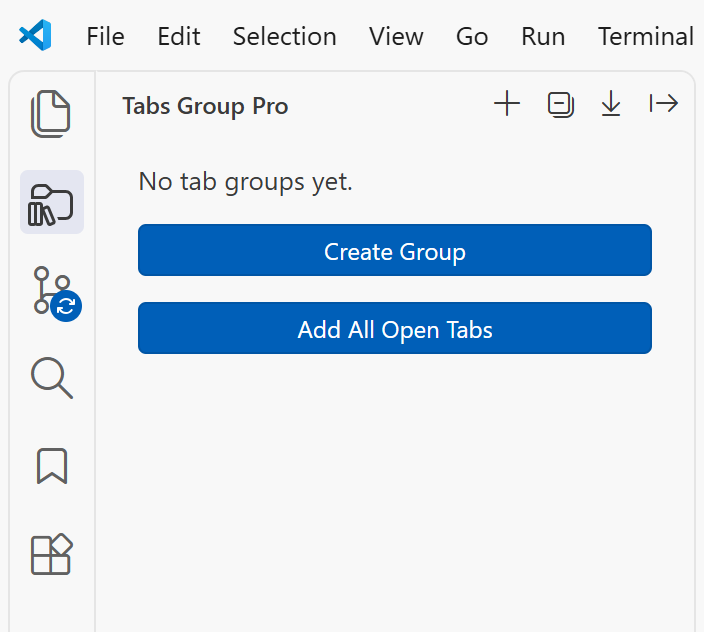
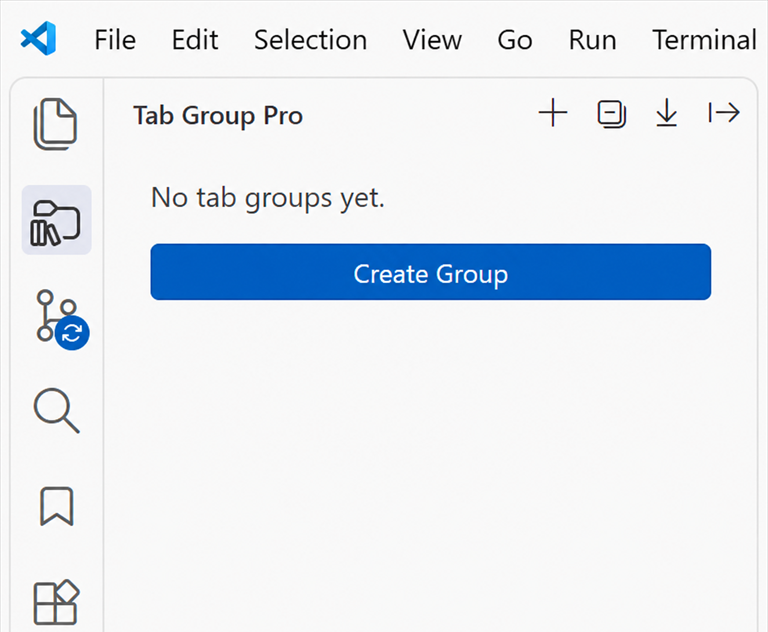
Release Tab Group Pro 2.0.8

diff --git a/scripts/tree-provider.js b/scripts/tree-provider.js
@@ -2,7 +2,7 @@
 
 // Tree view state and group/tab actions.
 Object.defineProperty(exports, "__esModule", { value: true });
-exports.TabGroupsTreeProvider = void 0;
+exports.TabGroupTreeProvider = void 0;
 const vscode = require("vscode");
 const path = require("path");
 const { TabGroupItem } = require("./tree-item");
@@ -16,11 +16,11 @@ const {
     createQuickPickGroupsOptions,
     getCurrentlyOpenFiles
 } = require("./vscode-utils");
-const { TabGroupsDragAndDrop } = require("./tree-drag-drop");
+const { TabGroupDragAndDrop } = require("./tree-drag-drop");
 /**
  * The tree view class. Represents the explorer tree.
  */
-class TabGroupsTreeProvider {
+class TabGroupTreeProvider {
     /**
      * Create a new tree view.
      * Register all the commands available for this tree.
@@ -31,7 +31,7 @@ class TabGroupsTreeProvider {
         this.m_data = [];
         // with the vscode.EventEmitter we can refresh our  tree view
         this.m_onDidChangeTreeData = new vscode.EventEmitter();
-        // and vscode will access the event by using a readonly onDidChangeTreeData 
+        // and vscode will access the event by using a readonly onDidChangeTreeData
         //(this member has to be named like here, otherwise vscode doesnt update our treeview.
         this.onDidChangeTreeData = this.m_onDidChangeTreeData.event;
         this.context = context;
@@ -44,7 +44,7 @@ class TabGroupsTreeProvider {
                 await this.commitChanges();
             }
         );
-        this.dragAndDropController = new TabGroupsDragAndDrop(
+        this.dragAndDropController = new TabGroupDragAndDrop(
             () => this.m_data,
             async (groups, replaceGroups = false) => {
                 if (replaceGroups) this.m_data = groups;
@@ -116,7 +116,7 @@ class TabGroupsTreeProvider {
         let result = new vscode.TreeItem(title, item.collapsibleState);
         // here we add our command which executes our memberfunction
         result.command = {
-            command: "tabs_group_pro.item_clicked",
+            command: "tab_group_pro.item_clicked",
             title: title,
             arguments: [item],
         };
@@ -134,7 +134,7 @@ class TabGroupsTreeProvider {
         if (!element) {
             return this.m_data.map(item => {
                 if (this.treeView && item.isRoot) {
-                    this.treeView.reveal(item, { 
+                    this.treeView.reveal(item, {
                         expand: item.collapsibleState === vscode.TreeItemCollapsibleState.Expanded,
                         focus: false, // 避免初始化时聚焦
                         select: false // 避免初始化时聚焦
@@ -242,9 +242,9 @@ class TabGroupsTreeProvider {
     /*** MID LEVEL ***/
 
     async addEntryToGroup(item) {
-        if(!item){ 
+        if(!item){
             vscode.window.showErrorMessage('Only can be added to Group when right click on a file.');
-            return; 
+            return;
         }
         const selectedFilePath = item.fsPath || item._fsPath;
         if (!selectedFilePath) {
@@ -321,7 +321,7 @@ class TabGroupsTreeProvider {
                 parent.add_child(newChild);
                 filePaths.push(filePath);
             }
-            if(vscode.workspace.getConfiguration("tabs-group-pro").get("closeTabsOnAddAllToGroup")){
+            if(vscode.workspace.getConfiguration("tab-group-pro").get("closeTabsOnAddAllToGroup")){
                 await this.editorTabs.close(filePaths);
             }
             parent.updateTooltip();
@@ -382,7 +382,7 @@ class TabGroupsTreeProvider {
      */
     async openTabGroup(item) {
         // Check if the user wants the other tabs to be closed when opening a new group
-        if (vscode.workspace.getConfiguration("tabs-group-pro").get("closeTabsOnOpenGroup")) {
+        if (vscode.workspace.getConfiguration("tab-group-pro").get("closeTabsOnOpenGroup")) {
             // close every open tab
             await vscode.commands.executeCommand("workbench.action.closeAllEditors");
         }
@@ -682,4 +682,4 @@ class TabGroupsTreeProvider {
         this.groupLabel = null;
     }
 }
-exports.TabGroupsTreeProvider = TabGroupsTreeProvider;
+exports.TabGroupTreeProvider = TabGroupTreeProvider;

diff --git a/scripts/extension.js b/scripts/extension.js
@@ -3,7 +3,7 @@ Object.defineProperty(exports, "__esModule", { value: true });
 exports.deactivate = exports.activate = void 0;
 // VS Code extensibility API
 const vscode = require("vscode");
-const { TabGroupsTreeProvider } = require("./tree-provider");
+const { TabGroupTreeProvider } = require("./tree-provider");
 const { EXTENSION_ID, disposeOutputChannel } = require("./vscode-utils");
 
 function registerCommands(target) {
@@ -32,14 +32,14 @@ function registerCommands(target) {
         addAllToGroup: () => target.addAllOpenTabsToGroup()
     };
     return Object.entries(handlers).map(([command, handler]) =>
-        vscode.commands.registerCommand(`tabs_group_pro.${command}`, handler)
+        vscode.commands.registerCommand(`tab_group_pro.${command}`, handler)
     );
 }
 /**
  * Called when the extension is started
  */
 async function activate(context) {
-    const treeDataProvider = new TabGroupsTreeProvider(context);
+    const treeDataProvider = new TabGroupTreeProvider(context);
     const treeView = vscode.window.createTreeView(EXTENSION_ID, {
         treeDataProvider: treeDataProvider,
         dragAndDropController: treeDataProvider.dragAndDropController

diff --git a/scripts/vscode-utils.js b/scripts/vscode-utils.js
@@ -6,9 +6,9 @@ const vscode = require("vscode");
 const path = require("path");
 const { getAbsolutePathComparisonKey } = require("./group-data");
 
-const EXTENSION_ID = "tabs_group_pro";
+const EXTENSION_ID = "tab_group_pro";
 const NEW_GROUP_LABEL = "Create New Group";
-const TREE_MIME_TYPE = "application/vnd.code.tree.tabs_group_pro";
+const TREE_MIME_TYPE = "application/vnd.code.tree.tab_group_pro";
 const URI_LIST_MIME_TYPE = "text/uri-list";
 
 class EditorTabs {
@@ -114,7 +114,7 @@ function getCurrentlyOpenFiles(workspaceDir) {
     return result;
 }
 
-const outputChannel = vscode.window.createOutputChannel("Tabs Group Pro", { log: true });
+const outputChannel = vscode.window.createOutputChannel("Tab Group Pro", { log: true });
 
 function logMessage(message) {
     outputChannel.appendLine(message);

diff --git a/scripts/group-data.js b/scripts/group-data.js
@@ -75,7 +75,7 @@ class GroupImportExport {
                 }))
             };
             const targetUri = await vscode.window.showSaveDialog({
-                defaultUri: vscode.Uri.joinPath(workspaceFolders[0].uri, "tabs-group-pro-groups.json"),
+                defaultUri: vscode.Uri.joinPath(workspaceFolders[0].uri, "tab-group-pro-groups.json"),
                 filters: { "JSON files": ["json"] },
                 saveLabel: "Export"
             });

diff --git a/scripts/tree-drag-drop.js b/scripts/tree-drag-drop.js
@@ -12,7 +12,7 @@ const {
     getAbsolutePathComparisonKey
 } = require("./group-data");
 
-class TabGroupsDragAndDrop {
+class TabGroupDragAndDrop {
     constructor(getGroups, commitChanges, editorTabs) {
         this.getGroups = getGroups;
         this.commitChanges = commitChanges;
@@ -216,4 +216,4 @@ class TabGroupsDragAndDrop {
     }
 }
 
-exports.TabGroupsDragAndDrop = TabGroupsDragAndDrop;
+exports.TabGroupDragAndDrop = TabGroupDragAndDrop;

diff --git a/README.md b/README.md
@@ -1,10 +1,10 @@
-# Tabs Group Pro
+# Tab Group Pro
 
 [简体中文](README.zh-CN.md) | English
 
 Create persistent file groups for each VS Code workspace and reopen the files you need in a predictable order.
 
-[Install Tabs Group Pro from Visual Studio Marketplace](https://marketplace.visualstudio.com/items?itemName=shelus2021.tabs-group-pro)
+[Install Tab Group Pro from Visual Studio Marketplace](https://marketplace.visualstudio.com/items?itemName=shelus2021.tab-group-pro)
 
 ## Features
 
@@ -25,13 +25,13 @@ Create persistent file groups for each VS Code workspace and reopen the files yo
 
 | Create your first group | Manage grouped files |
 | --- | --- |
-| <img src="screenshots/empty-state.png" alt="Tabs Group Pro empty state with actions to create a group or add all open tabs" width="360"> | <img src="screenshots/group-actions.png" alt="Tabs Group Pro showing grouped files and the group actions menu" width="360"> |
+| <img src="screenshots/empty-state.png" alt="Tab Group Pro empty state with an action to create a group" width="360"> | <img src="screenshots/group-actions.png" alt="Tab Group Pro showing grouped files and the group actions menu" width="360"> |
 
 ## Getting started
 
 1. Open a folder or workspace in VS Code.
-2. Open **Tabs Group Pro** from the Activity Bar.
-3. Run **Tabs Group Pro: Add a New Group**, or use **Add All Opened Tabs to Group**.
+2. Open **Tab Group Pro** from the Activity Bar.
+3. Run **Tab Group Pro: Add a New Group**, or use **Add All Opened Tabs to Group**.
 4. Drag groups or tabs to reorder them. Drop a tab on another group to move it across groups, or drag tabs in either direction between the editor and a group.
 
 Groups are stored in VS Code workspace state and restored when that workspace is opened again. Grouped tabs are persisted as workspace-relative paths and resolved against the currently open workspace when loaded.
@@ -58,8 +58,8 @@ The JSON format is:
 
 | Setting | Default | Description |
 | --- | --- | --- |
-| `tabs-group-pro.closeTabsOnOpenGroup` | `false` | Close all currently open editors before opening a group. |
-| `tabs-group-pro.closeTabsOnAddAllToGroup` | `false` | Close open text tabs after adding all of them to a group. |
+| `tab-group-pro.closeTabsOnOpenGroup` | `false` | Close all currently open editors before opening a group. |
+| `tab-group-pro.closeTabsOnAddAllToGroup` | `false` | Close open text tabs after adding all of them to a group. |
 
 ## Notes and limitations
 

diff --git a/README.zh-CN.md b/README.zh-CN.md
@@ -1,10 +1,10 @@
-# Tabs Group Pro
+# Tab Group Pro
 
 简体中文 | [English](README.md)
 
 为每个 VS Code 工作区创建可持久保存的文件分组，并按确定的顺序重新打开所需文件。
 
-[从 Visual Studio Marketplace 安装 Tabs Group Pro](https://marketplace.visualstudio.com/items?itemName=shelus2021.tabs-group-pro)
+[从 Visual Studio Marketplace 安装 Tab Group Pro](https://marketplace.visualstudio.com/items?itemName=shelus2021.tab-group-pro)
 
 ## 功能
 
@@ -25,13 +25,13 @@
 
 | 创建第一个分组 | 管理分组文件 |
 | --- | --- |
-| <img src="screenshots/empty-state.png" alt="Tabs Group Pro 空白状态，可创建分组或添加所有已打开标签页" width="360"> | <img src="screenshots/group-actions.png" alt="Tabs Group Pro 展示分组文件及分组操作菜单" width="360"> |
+| <img src="screenshots/empty-state.png" alt="Tab Group Pro 空白状态，可创建分组" width="360"> | <img src="screenshots/group-actions.png" alt="Tab Group Pro 展示分组文件及分组操作菜单" width="360"> |
 
 ## 快速开始
 
 1. 在 VS Code 中打开文件夹或工作区。
-2. 从活动栏打开 **Tabs Group Pro**。
-3. 执行 **Tabs Group Pro: Add a New Group**，或使用 **Add All Opened Tabs to Group**。
+2. 从活动栏打开 **Tab Group Pro**。
+3. 执行 **Tab Group Pro: Add a New Group**，或使用 **Add All Opened Tabs to Group**。
 4. 拖动分组或标签进行排序；将标签拖到其他分组即可跨组移动，也可在编辑器与分组之间双向拖动标签。
 
 分组保存在 VS Code 的工作区状态中，再次打开同一工作区时会自动恢复。分组标签仅持久化工作区相对路径，加载时根据当前工作区重新解析。
@@ -58,8 +58,8 @@ JSON 格式如下：
 
 | 配置项 | 默认值 | 说明 |
 | --- | --- | --- |
-| `tabs-group-pro.closeTabsOnOpenGroup` | `false` | 打开分组前关闭当前所有编辑器标签。 |
-| `tabs-group-pro.closeTabsOnAddAllToGroup` | `false` | 将全部文本标签加入分组后关闭这些标签。 |
+| `tab-group-pro.closeTabsOnOpenGroup` | `false` | 打开分组前关闭当前所有编辑器标签。 |
+| `tab-group-pro.closeTabsOnAddAllToGroup` | `false` | 将全部文本标签加入分组后关闭这些标签。 |
 
 ## 使用限制
 

diff --git a/PUBLISHING.md b/PUBLISHING.md
@@ -7,15 +7,15 @@ This directory was recovered from an installed extension. It is suitable for run
 ## Blockers to resolve before public publishing
 
 1. **Confirm redistribution rights.** The upstream repository does not currently contain a detected license file. A public repository is not, by itself, a redistribution license. Ask the upstream author to add a license or obtain explicit permission before publishing this modified build.
-2. **Confirm the extension identity.** The package now uses publisher `shelus2021`, name `tabs-group-pro`, version `2.0.7`, and repository `shelus2021/tabs-group-pro`. Confirm that the Marketplace publisher ID exists and belongs to you.
+2. **Confirm the extension identity.** The package now uses publisher `shelus2021`, name `tab-group-pro`, version `2.0.8`, and repository `shelus2021/tab-group-pro`. Confirm that the Marketplace publisher ID exists and belongs to you.
 3. Confirm that `name` and `displayName` are available in the Marketplace before the first publication.
 4. Restore a maintainable source tree. The current snapshot contains the packaged runtime in `scripts/*.js` and includes `package-lock.json`, but not the TypeScript `src` directory, `tsconfig.json`, or lint configuration. Prefer applying these changes to a fresh fork of the upstream source repository.
 
 ## Marketplace presentation
 
 - Keep `README.md`, `CHANGELOG.md`, and the final license file in the extension root.
-- The included `resources/tabs-group-pro.png` is the Marketplace icon. Keep it at least 128×128 pixels; Marketplace icons cannot be SVG.
-- The monochrome `resources/tab-groups.svg` is the VS Code Activity Bar icon. The editable brand source is `resources/tabs-group-pro.svg`.
+- The included `resources/tab-group-pro.png` is the Marketplace icon. Keep it at least 128×128 pixels; Marketplace icons cannot be SVG.
+- The monochrome `resources/tab-group.svg` is the VS Code Activity Bar icon. The editable brand source is `resources/tab-group-pro.svg`.
 - Add `galleryBanner`, `homepage`, and `bugs` after the final repository URL is known.
 - Use HTTPS for all remote images in README and CHANGELOG. Marketplace publishing rejects untrusted SVG content.
 

diff --git a/CHANGELOG.md b/CHANGELOG.md
@@ -2,7 +2,14 @@
 
 [简体中文](CHANGELOG.zh-CN.md) | English
 
-All notable changes to Tabs Group Pro are documented here.
+All notable changes to Tab Group Pro are documented here.
+
+## [2.0.8] - 2026-10-22
+
+> Before updating, make a record of your existing groups because the extension identity has changed.
+
+- Renamed the extension identity to `tab-group-pro` / **Tab Group Pro**, including command, view, configuration, Marketplace, repository, resource, and export-file references.
+- Updated the Marketplace screenshots and removed the obsolete **Add All Open Tabs** empty-state action from the preview.
 
 ## [2.0.7] - 2026-10-17
 
@@ -22,7 +29,7 @@ All notable changes to Tabs Group Pro are documented here.
 
 ### Changed
 
-- Renamed the extension identity to `tabs-group-pro` / **Tabs Group Pro**.
+- Renamed the extension identity to `tab-group-pro` / **Tab Group Pro**.
 - Updated command, view, configuration, Marketplace, repository, and icon references to the new identity.
 
 ## [2.0.4] - 2026-10-12
@@ -53,7 +60,7 @@ All notable changes to Tabs Group Pro are documented here.
 
 ### Added
 
-- Added a dedicated Tabs Group Pro Marketplace icon and editable SVG source.
+- Added a dedicated Tab Group Pro Marketplace icon and editable SVG source.
 - Added a scoped MIT license for shelus2021-authored contributions, upstream attribution, and a rights-holder contact notice.
 - Remembered expanded and collapsed state for each group.
 - Clear-group action that keeps the group itself.
@@ -71,7 +78,7 @@ All notable changes to Tabs Group Pro are documented here.
 - Keep new groups collapsed by default.
 - Remove empty groups without an extra confirmation.
 - Use built-in VS Code product icons for actions.
-- Default `tabs-group-pro.closeTabsOnOpenGroup` to `false`.
+- Default `tab-group-pro.closeTabsOnOpenGroup` to `false`.
 - Improve command names, menus, prompts, and error messages.
 - Dispose commands, views, event listeners, emitters, and the output channel cleanly.
 

diff --git a/PUBLISHING.zh-CN.md b/PUBLISHING.zh-CN.md
@@ -7,15 +7,15 @@
 ## 公开发布前必须解决
 
 1. **确认再分发权利。** 上游仓库目前没有可识别的许可证文件。代码公开可见并不等同于获得复制、修改和重新发布许可。发布此修改版本前，应请上游作者补充许可证或取得明确授权。
-2. **确认扩展身份。** 当前包已设置发布者 `shelus2021`、名称 `tabs-group-pro`、版本 `2.0.7` 和仓库 `shelus2021/tabs-group-pro`。请确认扩展商店中已创建该发布者且归你所有。
+2. **确认扩展身份。** 当前包已设置发布者 `shelus2021`、名称 `tab-group-pro`、版本 `2.0.8` 和仓库 `shelus2021/tab-group-pro`。请确认扩展商店中已创建该发布者且归你所有。
 3. 首次发布前，确认 `name` 和 `displayName` 在扩展商店中可用。
 4. 恢复可维护的源码工程。当前目录的 `scripts/*.js` 是打包后的运行时代码，并包含 `package-lock.json`，但缺少 TypeScript `src`、`tsconfig.json` 和代码检查配置。建议从上游源码仓库创建 fork，再把本次改动移植回 TypeScript 源码。
 
 ## 扩展商店展示
 
 - 在扩展根目录保留 `README.md`、`CHANGELOG.md` 和最终许可证文件。
-- 已包含商店图标 `resources/tabs-group-pro.png`，应保持至少 128×128 像素；扩展商店图标不能使用 SVG。
-- `resources/tab-groups.svg` 是 VS Code 活动栏单色图标，`resources/tabs-group-pro.svg` 是可编辑的品牌图标源稿。
+- 已包含商店图标 `resources/tab-group-pro.png`，应保持至少 128×128 像素；扩展商店图标不能使用 SVG。
+- `resources/tab-group.svg` 是 VS Code 活动栏单色图标，`resources/tab-group-pro.svg` 是可编辑的品牌图标源稿。
 - 仓库地址确定后，补充 `galleryBanner`、`homepage` 和 `bugs`。
 - README 和 CHANGELOG 中的远程图片必须使用 HTTPS；扩展商店会拒绝不受信任的 SVG 内容。
 

diff --git a/CHANGELOG.zh-CN.md b/CHANGELOG.zh-CN.md
@@ -2,7 +2,14 @@
 
 简体中文 | [English](CHANGELOG.md)
 
-本文件记录 Tabs Group Pro 的重要变更。
+本文件记录 Tab Group Pro 的重要变更。
+
+## 2.0.8 — 2026-10-22
+
+> 扩展身份已经变更，更新前请先做好已有分组记录。
+
+- 将扩展标识统一更名为 `tab-group-pro` / **Tab Group Pro**，同步更新命令、视图、配置、扩展商店、仓库、资源及导出文件引用。
+- 更新扩展商店预览图，并从空状态预览中移除已经废弃的 **Add All Open Tabs** 操作。
 
 ## 2.0.7 — 2026-10-17
 
@@ -22,7 +29,7 @@
 
 ### 变更
 
-- 将扩展标识统一更名为 `tabs-group-pro` / **Tabs Group Pro**。
+- 将扩展标识统一更名为 `tab-group-pro` / **Tab Group Pro**。
 - 同步更新命令、视图、配置、扩展商店、仓库和图标引用。
 
 ## 2.0.4 — 2026-10-12
@@ -53,7 +60,7 @@
 
 ### 新增
 
-- 增加 Tabs Group Pro 扩展商店图标及可编辑的 SVG 源稿。
+- 增加 Tab Group Pro 扩展商店图标及可编辑的 SVG 源稿。
 - 为 shelus2021 原创贡献增加限定范围的 MIT 许可，并补充上游署名和权利人联系说明。
 - 记忆每个分组的展开和折叠状态。
 - 增加“清空分组”，删除全部文件但保留分组。
@@ -71,7 +78,7 @@
 - 新建分组默认保持折叠。
 - 删除空分组时不再要求二次确认。
 - 操作按钮改用 VS Code 内置产品图标。
-- `tabs-group-pro.closeTabsOnOpenGroup` 默认值改为 `false`。
+- `tab-group-pro.closeTabsOnOpenGroup` 默认值改为 `false`。
 - 重新整理命令名称、菜单、输入提示和错误信息。
 - 扩展停用时正确释放命令、视图、事件监听器、事件发射器和日志输出通道。
 

diff --git a/NOTICE.md b/NOTICE.md
@@ -4,10 +4,10 @@
 
 ## Maintained version
 
-- Project: Tabs Group Pro 2.0.7
+- Project: Tab Group Pro 2.0.8
 - Maintainer and publisher: shelus2021
 - Contact: [shelus2021@foxmail.com](mailto:shelus2021@foxmail.com)
-- Repository: <https://github.com/shelus2021/tabs-group-pro>
+- Repository: <https://github.com/shelus2021/tab-group-pro>
 
 ## Upstream source
 
